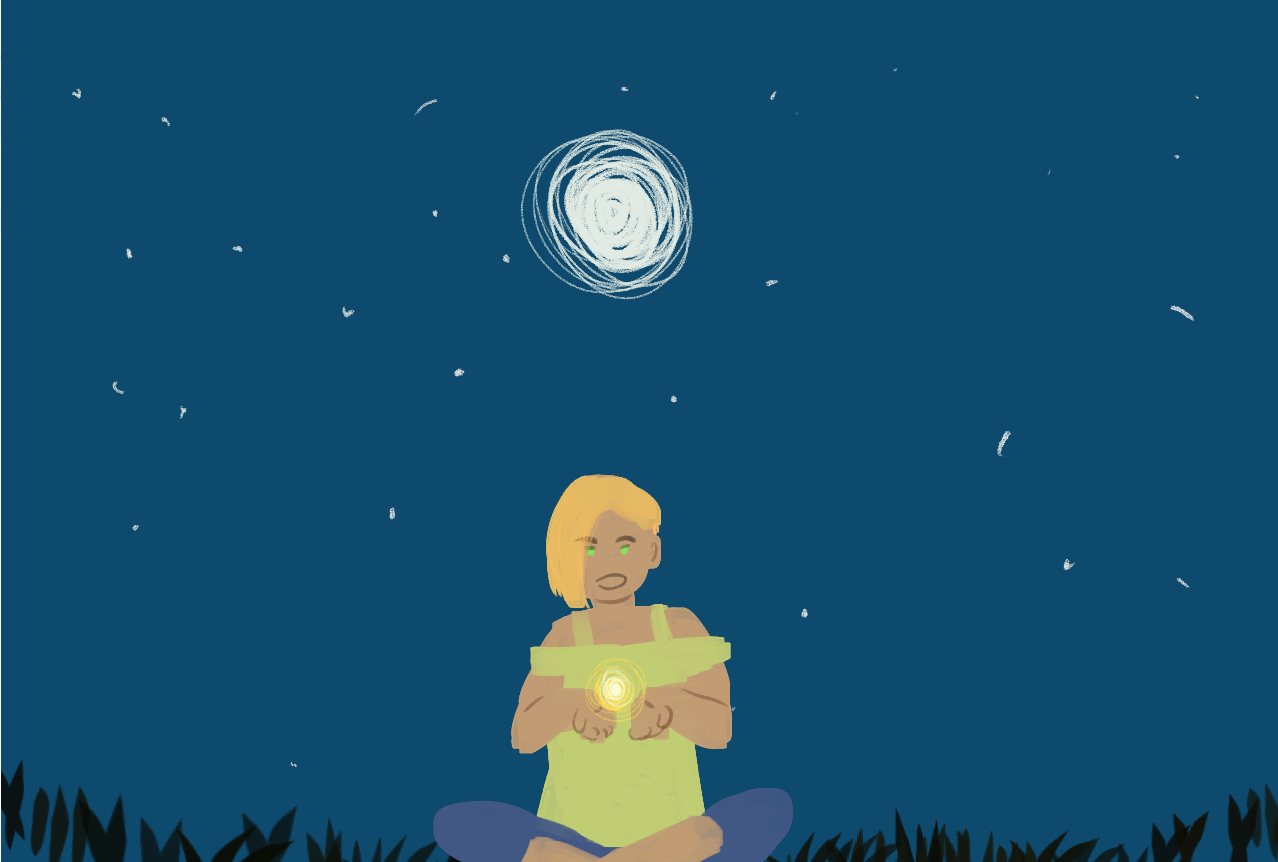
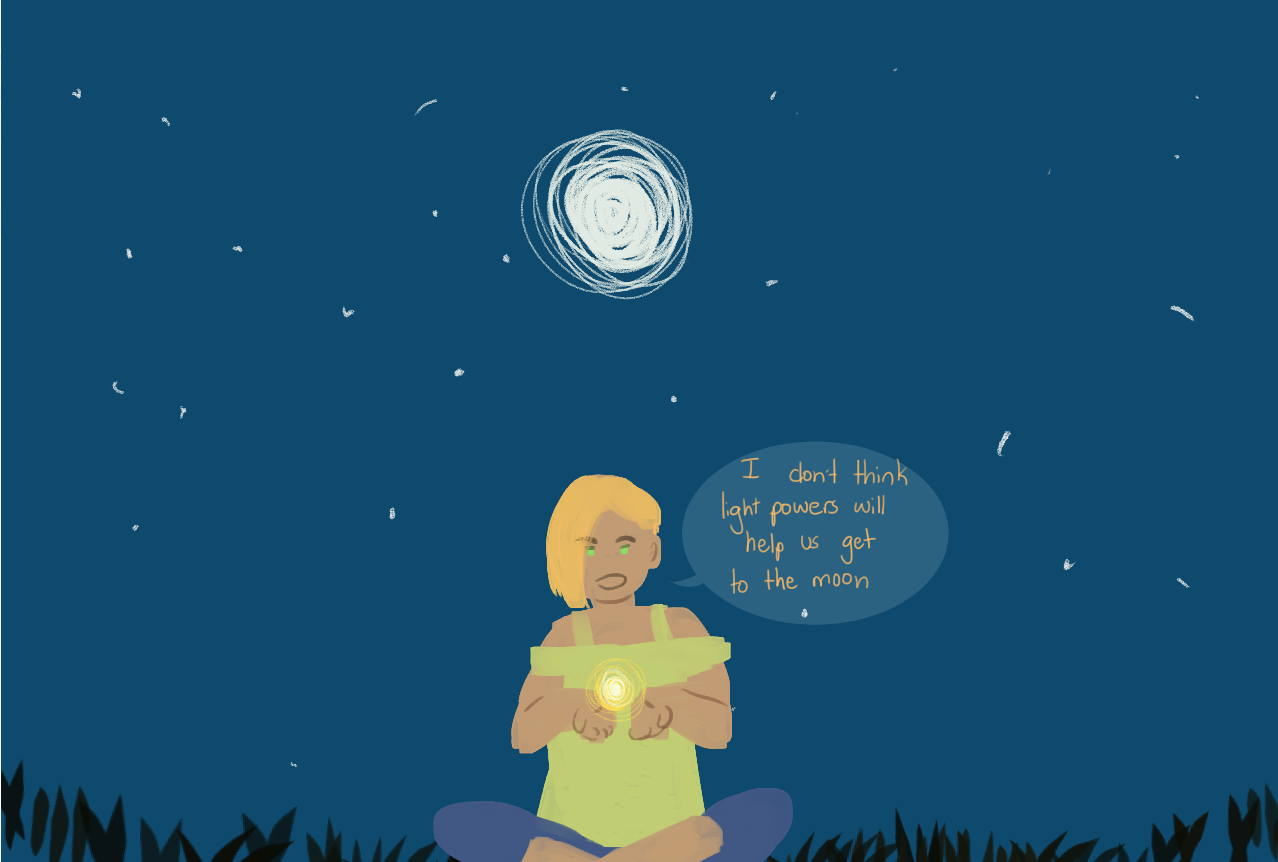
page2

Changed region(s): [[0.5188, 0.5128, 0.7629, 0.7239]]

diff --git a/_posts/2019-05-27-lunar-2.md b/_posts/2019-05-27-lunar-2.md
@@ -3,4 +3,4 @@ image: ../shyle/2.png
 ---
 <img src="{{page.image}}"> <br>
 
-Holly sits up, as if she's been thinking. "I don't think my light powers will help us get to the moon."
+Holly sits up, as if she's been thinking. "I don't think my light powers will help us get to the moon." She's holding a ball of light, as she often does, dim and pretty in the night. The grass next to her rustles in acknowledgement. 
